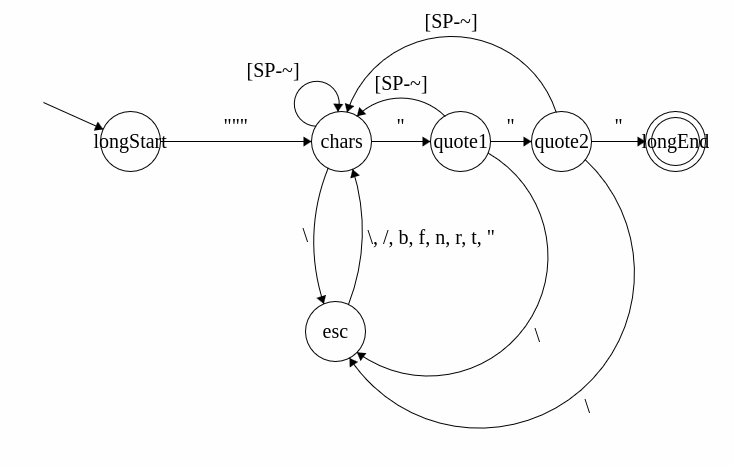
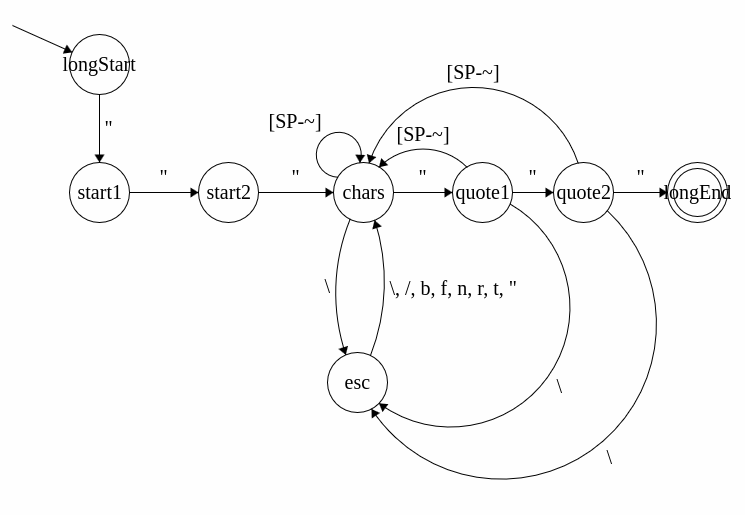
removed triple quote shortcut

diff --git a/DFAs/DFA.cpp b/DFAs/DFA.cpp
@@ -235,8 +235,22 @@ string stringDFA::run() {
 
 // ----------------- longstringDFA method definitions -----------------
 void longstringDFA::longStart() {
-    if (position + 2 < input.size() && input.substr(position, 3) == "\"\"\"") {
-        position += 3;
+    if (position < input.size() && input[position] == '\"') {
+        ++position;
+        start1();
+    }
+}
+
+void longstringDFA::start1() {
+    if (position < input.size() && input[position] == '\"') {
+        ++position;
+        start2();
+    }
+}
+
+void longstringDFA::start2() {
+    if (position < input.size() && input[position] == '\"') {
+        ++position;
         chars();
     }
 }
@@ -301,7 +315,6 @@ longstringDFA::longstringDFA(string input, int start) {
 string longstringDFA::run() {
     longStart();
     if (longest > -1) {
-        // cout << longest - start << endl;
         return input.substr(start, longest - start);
     } else {
         return "";

diff --git a/DFAs/DFA.hpp b/DFAs/DFA.hpp
@@ -67,6 +67,8 @@ public:
 
 class longstringDFA : public BaseDFA {
     void longStart();
+    void start1();
+    void start2();
     void esc();
     void quote1();
     void quote2();
